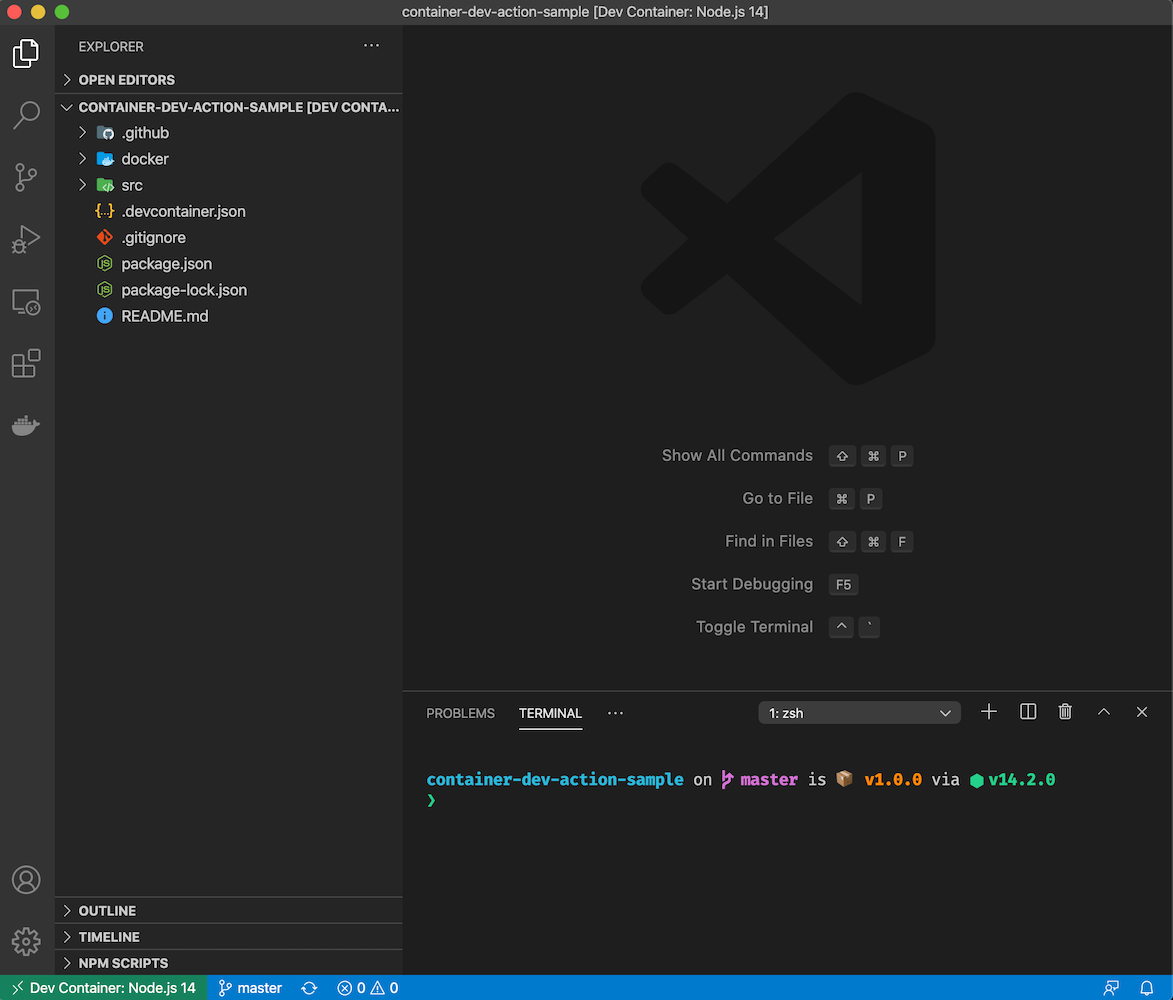
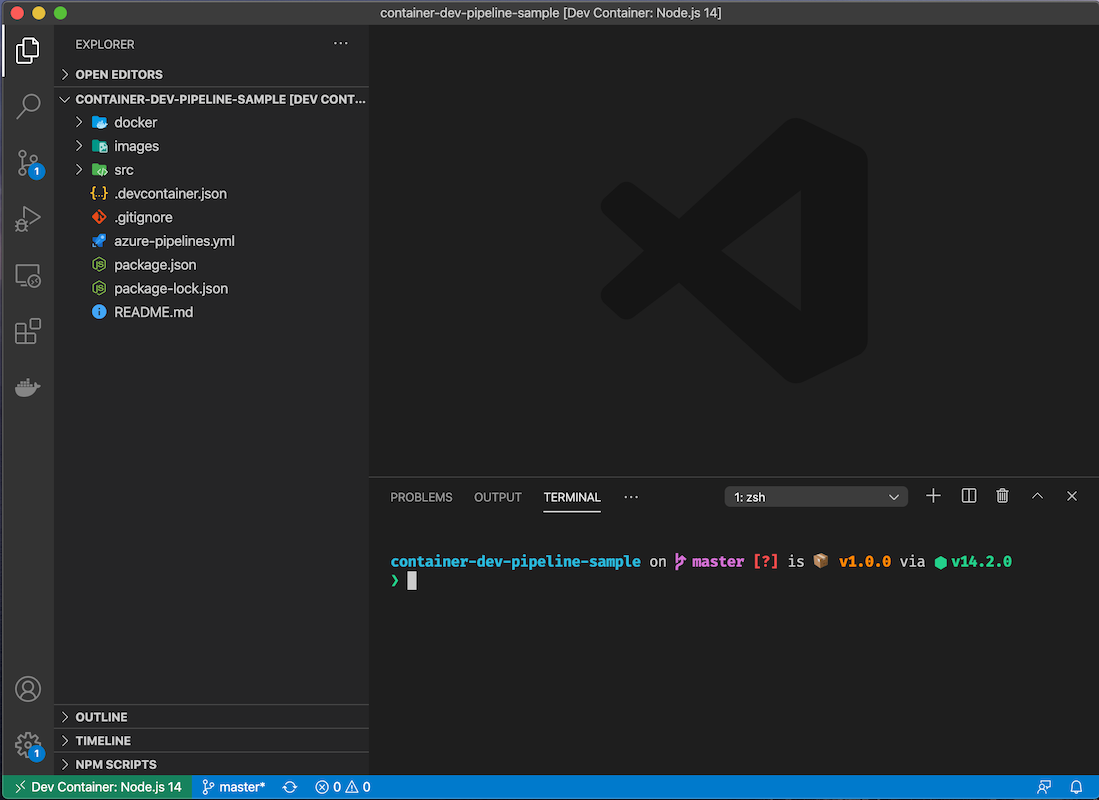
update images to pipelines

diff --git a/README.md b/README.md
@@ -127,6 +127,6 @@ Hello world!
 
 ...under a new run of the Action under `CI/CD Automation` in `Automation step 1`.
 
-![action output](./images/action-output.png)
+![action output](./images/pipeline-output.png)
 
 🎉
